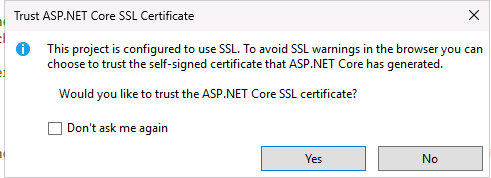
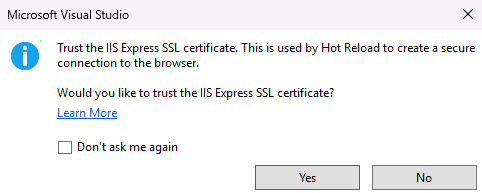
Update exercise1.md to correct SSL certificate references and improve task instructions

diff --git a/skillable/exercise1.md b/skillable/exercise1.md
@@ -123,19 +123,17 @@ The implementation is the same we have seen for the `OnMessageActivityAsync()` m
 
 # Task 3: Test the agent with the Bot Framework Emulator
 As the first step, you must run the agent. As such, press F5 in Visual Studio to start the project.
-The first time you will run the project, you will be asked to trust the ASP.NET Core SSL certificate. Follow these steps:
+The first time you will run the project, you will be asked to trust the IIS Express SSL certificate. Follow these steps:
 
 1. Click on **Yes** to trust the certificate in the following pop-up:
 
-    ![Make sure to trust the ASP.NET Core SSL certificate](media/exercise1/1a-trust-certificate.png)
+    ![Make sure to trust the IIS Express SSL certificate](media/exercise1/1a-trust-certificate.png)![alt text](image.png)
 2.  You will get a security warning, asking you if you want to install this certificate. Click on **Yes**.
 
-    ![The security warning when you try to install the ASP.NET Core SSL certificate](media/exercise1/1b-security-warning.png)
-
-3. Then you must repeat the process for the IIS Express SSL certificate. Repeat steps 1 and 2.
+    ![The security warning when you try to install the IIS Express SSL certificate](media/exercise1/1b-security-warning.png)
 
 
- Two things will happen:
+After you have trusted the certificate, two things will happen:
 
 1. A terminal window will open, showing the logs of the Web API project.
 2. Microsoft Edge will open directly on the Web API URL, which is `https://localhost:56025`. However, being an API, you won't see a traditional web page, just the message **Microsoft Copilot SDK Sample**.
@@ -156,12 +154,13 @@ If you're doing this lab at MCAPS Tech Connect, the Bot Framework Emulator is al
     http://localhost:56026/api/messages
     ```
 
-    [!Alert] Make sure to use the HTTP URL of the local Web API and not the HTTPS one
+    [!Alert](Make sure to use the HTTP URL of the local Web API and not the HTTPS one)
 
 
     ![Open an agent in the Bot Framework Emulator](media/exercise1/2.open-bot.png)
 
-5. The Bot Framework Emulator will open a live chat with your agent. In a few seconds, you should see the following message:
+5. Click **Connect**.
+6. The Bot Framework Emulator will open a live chat with your agent. In a few seconds, you should see the following message:
 
     ```
     Hello and Welcome!
@@ -169,48 +168,49 @@ If you're doing this lab at MCAPS Tech Connect, the Bot Framework Emulator is al
 
     This is the welcome message we implemented in the `OnMembersAddedAsync()` method.
 
-6. Type a message in the chat and press Enter. You should see the same message you typed, prefixed by `Echo:`.
+7. Type a message in the chat and press Enter. You should see the same message you typed, prefixed by `Echo:`.
 
     ![The Echo Agent responding to the user](media/exercise1/3.echo-agent.message.png)
 
-[!Knowledge] The Bot Framework Emulator is a powerful tool that allows you to test and debug your agent. For example, by clicking on the various messages exchanged between the user and the agent, you have the option to see the JSON payload that is sent to the REST APIs. We won't dive deep into these option in these lab, but it's good to know that they are available.
+[!Knowledge](The Bot Framework Emulator is a powerful tool that allows you to test and debug your agent. For example, by clicking on the various messages exchanged between the user and the agent, you have the option to see the JSON payload that is sent to the REST APIs. We won't dive deep into these option in these lab, but it's good to know that they are available).
 
 # Task 4: Deploy the agent to a real channel
-Let's take the agent to a more realistic scenario and let's publishing it on a real channel, like a web application. To do that, we can't rely on the local Web API we're using now, but we need to leverage the Azure Bot Service. It's a service that acts as a bridge between your agent and the various channels where you want to deploy it, taking care of tasks like authentication, message dispatching, etc.
+Let's test the agent in a more realistic scenario by publishing it on a real channel, like a web application. To do that, we can't rely on the local Web API we're using now, but we need to leverage the Azure Bot Service. It's a service that acts as a bridge between your agent and the various channels where you want to deploy it, taking care of tasks like authentication, message dispatching, etc.
 
 The Azure Bot Service runs in the cloud so, in a production scenario, you would need to publish your agent on the web before using it, using one of the many available service like Azure App Service, Azure Functions, etc. However, for the sake of this lab, we're going to keep the agent local and we're going to use a Dev Tunnel to connect it to the Azure Bot Service.
 
-[!Knowledge] Dev Tunnel is a technology included in Visual Studio that allows you to expose a local service to the internet using a public URL, allowing a cloud application like the Azure Bot Service to communicate with it without needing to deploy it.
+[!Knowledge](Dev Tunnel is a technology included in Visual Studio that allows you to expose a local service to the internet using a public URL, allowing a cloud application like the Azure Bot Service to communicate with it without needing to deploy it.)
 
 As the first step, let's create the Dev Tunnel:
 
-1. In Visual Studio, click on the small arrow icon near the button which starts the debugging experience. You will see in the list the item **Dev Tunnels**, with the suffix **(No active tunnel)**.
+1. If the debugging is still running from the previous task, stop it.
+2. In Visual Studio, click on the small arrow icon near the button which starts the debugging experience. You will see in the list the item **Dev Tunnels**, with the suffix **(No active tunnel)**.
 
     ![The option to set up a Dev Tunnel in Visual Studio](media/exercise1/4.devtunnels-list.png)
 
-2. Expand the option and choose **Create a Tunnel**. You will see the following window:
+3. Expand the option and choose **Create a Tunnel**. You will see the following window:
 
     ![The window to create a new Dev Tunnel](media/exercise1/5.new-dev-tunnel.png)
 
-3. To create a Dev Tunnel you must be logged in with a Microsoft Account (work, school or personal) or with a GitHub account. Click on the **Account** dropdown and pick the option that works best for you: it can be your GitHub account, your personal Microsoft account or your work Microsoft account. All of these are valid options.
+4. To create a Dev Tunnel you must be logged in with a Microsoft Account (work, school or personal) or with a GitHub account. Click on the **Account** dropdown and pick the option that works best for you: it can be your GitHub account, your personal Microsoft account or your work Microsoft account. All of these are valid options.
 
-4. After you have logged in, make sure to set the following options:
+5. After you have logged in, make sure to set the following options:
 
-    - **Name**: this is a free text, choose something meaningful like +++MCAPS-M365AgentsSDK+++.
+    - **Name**: this is a free text, choose something meaningful like +++ MCAPS-M365AgentsSDK +++.
     - **Tunnel Type**: choose **Temporary**.
     - **Access**: choose **Public**.
 
-5. Click **Ok**.
-6. Now click again the small arrow icon near the button to start the debugging experience and make sure the, in the dropdown, you can see the name of the new Dev Tunnel you just created: 
+6. Click **Ok**.
+7. Now click again the small arrow icon near the button to start the debugging experience and make sure that, in the dropdown, you can see the name of the new Dev Tunnel you just created: 
 
     ![The selected Dev Tunnel](media/exercise1/6.select-dev-tunnel.png)
 
-7. Press F5 to start the debugging experience. Visual Studio will start the Web API project like in Task 3 but, this time, you'll see that the URL that will be opened up in the browser will be a real public URL. Additionally, you will see the following page:
+8. Press F5 to start the debugging experience. Visual Studio will start the Web API project like in Task 3 but, this time, you'll see that the URL that will be opened up in the browser will be a real public URL. Additionally, you will see the following page:
 
     ![The Dev Tunnel up & running](media/exercise1/7.dev-tunnel-url.png)
 
-8. Click on **Continue** in the page. You should see the familiar **Microsoft Copilot SDK Sample** message.
-9. The agent is now up & running, but exposed through the public URL that was generated by the Dev Tunnel and that you can see in the address bar. Make sure to take note of the URL.
+9.  Click on **Continue** in the page. You should see the familiar **Microsoft Copilot SDK Sample** message.
+10. The agent is now up & running, but exposed through the public URL that was generated by the Dev Tunnel and that you can see in the address bar. Make sure to take note of the URL.
 
 The next step is to configure the Azure Bot Service to use this URL, so that it knows where to dispatch the communications with the agent. We don't need to manually create the Azure Bot Service, since the script we have used in the **Prerequisites** section has already done it for us. Follow these steps:
 
@@ -229,10 +229,13 @@ The next step is to configure the Azure Bot Service to use this URL, so that it 
     ![The resource group in Azure with the required services for the lab](media/exercise1/8.resource-group.png)
 
 8. Click on the one with **Bot Channel Registration** as type.
-9. In the left menu, expand the **Setting** section and click on **Configuration**.
+9. In the left menu, expand the **Settings** section and click on **Configuration**.
 10. Under the **Messaging endpoint** field, copy and paste the Dev Tunnel URL you have previously noted. Make sure to append `/api/messages` at the end of the URL. For example, if the Dev Tunnel URL is `https://pm5j7rdn-56025.use2.devtunnels.ms`, the final URL you must add in the field will be `https://pm5j7rdn-56025.use2.devtunnels.ms/api/messages`.
     
     ![The Azure Bot Service configuration](media/exercise1/9.messaging-endpoint.png)
+
+11. Click on **Apply** at the bottom of the page.
+
 
 The Azure Bot Service communication is authenticated through a dedicated app registration on Microsoft Entra, which was automatically created as well by the script in the **Prerequisites** section. This means, however, that our agent, in order to properly work when it's used with the Azure Bot Service, needs to authenticate itself with the app registration. To do this, we need to make a few changes in our project in Visual Studio. The project already contains a file called `AspNetExtensions.cs`, which uses the ASP.NET Authentication library to manage the authentication with Microsoft Entra. However, it's currently disabled, so we need to enable it.
 
@@ -301,10 +304,13 @@ Before moving on to the next step, make sure to stop and relaunch the debugging 
 Now that both the local agent and the Azure Bot Service are properly configured, we can test it using one of the available channels supported by the Azure Bot Service. In the interest of time, we're going to use the simplest one: the Web Chat channel.
 
 1. Go back to the Azure portal.
-2. Make sure that the agent is properly running on your local machine, through the Visual Studio debugging experience.
+2. Launch the agent in Visual Studio by pressing F5.
 3. In the Azure Bot Service resource, click on the **Test in Web Chat** button under the **Settings** section.
 4. If you did everything right, you should see the agent behaving like when you tested it in the Bot Framework Emulator:
    - You will see the welcome message **Hello and Welcome!**.
    - Whenever you type a message, you will see the same message returned by the agent, prefixed by `Echo:`.
    
     ![Testing the agent in the Web Chat](media/exercise1/10-web-chat.png)
+
+Congratulations! You have published your first agent to the web channel!
+In the next exercise, you're going to empower your agent with Generative AI capabilities thanks to the LLMs provided by Azure OpenAI.
